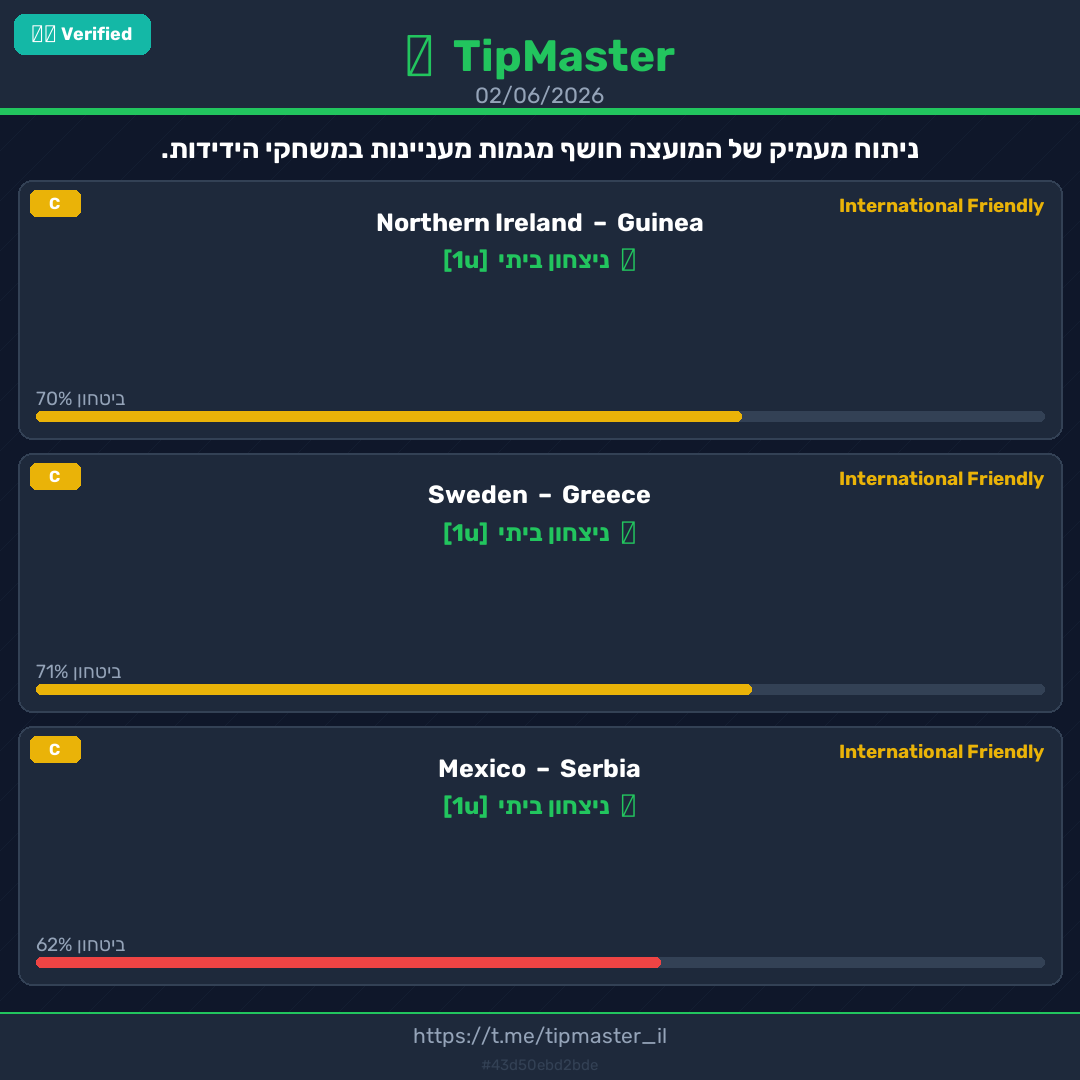
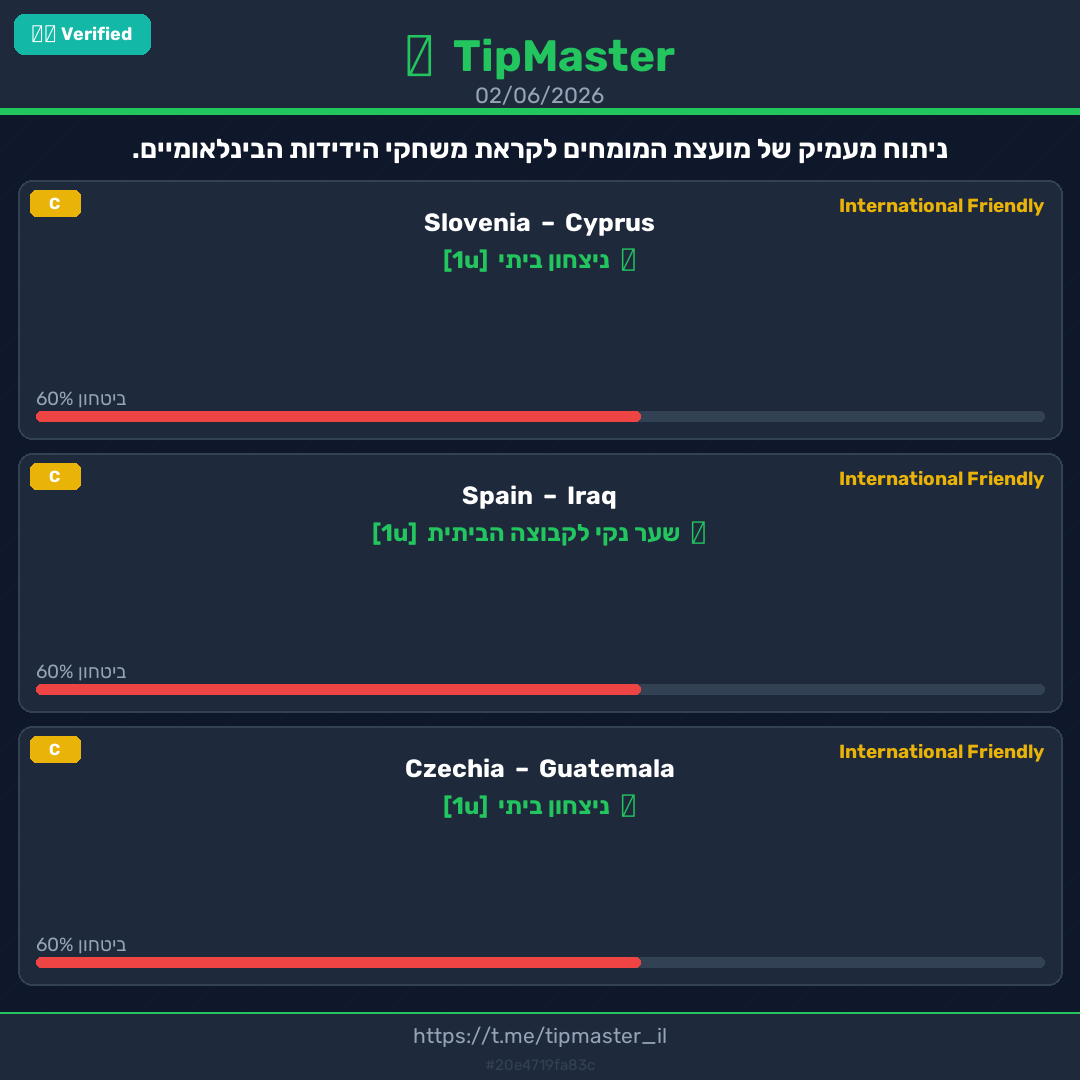
Update 2026-06-02

diff --git a/posts/2026-06-02.html b/posts/2026-06-02.html
@@ -26,7 +26,7 @@
       "name": "TipMaster",
       "description": "ניתוחי כדורגל מקצועיים מבוססי AI"
     },
-    "articleBody": "\u05e0\u05d9\u05ea\u05d5\u05d7 \u05de\u05e2\u05de\u05d9\u05e7 \u05e9\u05dc \u05d4\u05de\u05d5\u05e2\u05e6\u05d4 \u05d7\u05d5\u05e9\u05e3 \u05de\u05d2\u05de\u05d5\u05ea \u05de\u05e2\u05e0\u05d9\u05d9\u05e0\u05d5\u05ea \u05d1\u05de\u05e9\u05d7\u05e7\u05d9 \u05d4\u05d9\u05d3\u05d9\u05d3\u05d5\u05ea."
+    "articleBody": "\u05e0\u05d9\u05ea\u05d5\u05d7 \u05de\u05e2\u05de\u05d9\u05e7 \u05e9\u05dc \u05de\u05d5\u05e2\u05e6\u05ea \u05d4\u05de\u05d5\u05de\u05d7\u05d9\u05dd \u05dc\u05e7\u05e8\u05d0\u05ea \u05de\u05e9\u05d7\u05e7\u05d9 \u05d4\u05d9\u05d3\u05d9\u05d3\u05d5\u05ea \u05d4\u05d1\u05d9\u05e0\u05dc\u05d0\u05d5\u05de\u05d9\u05d9\u05dd."
   }
   </script>
 </head>
@@ -46,7 +46,7 @@
       <time class="post-date">02/06/2026</time>
       <h2>טיפים יומיים</h2>
       
-      <p class="intro">ניתוח מעמיק של המועצה חושף מגמות מעניינות במשחקי הידידות.</p>
+      <p class="intro">ניתוח מעמיק של מועצת המומחים לקראת משחקי הידידות הבינלאומיים.</p>
       
     </div>
 
@@ -60,41 +60,40 @@
       
       
       
-      
 
-      <div class="pick-card medium">
+      <div class="pick-card low">
         <div class="pick-header">
           <span class="league-badge">International Friendly</span>
           <span class="kickoff">🕐 19:00</span>
           
-          <span class="grade-badge grade-B">B</span>
+          <span class="grade-badge grade-C">C</span>
           
         </div>
 
-        <h3 class="match-title">Northern Ireland 🆚 Guinea</h3>
+        <h3 class="match-title">Slovenia 🆚 Cyprus</h3>
         <div class="pick-rec">✅ ניצחון ביתי</div>
 
         <div class="conf-row">
           <span class="conf-label">ביטחון</span>
           <div class="conf-bar">
-            <div class="conf-fill" style="width:70%"></div>
+            <div class="conf-fill" style="width:60%"></div>
           </div>
-          <span class="conf-pct">70%</span>
+          <span class="conf-pct">60%</span>
           
-          <span class="units-badge">3u</span>
+          <span class="units-badge">1u</span>
           
         </div>
 
         
-        <div class="key-stat">📊 נורת&#39;רן אירלנד ניצחה 60% ממשחקיה האחרונים</div>
+        <div class="key-stat">📊 Slovenia ניצחה 3 מ-5 המשחקים האחרונים</div>
         
 
-        <p class="short-reason">נורת&#39;רן אירלנד עם פורמה טובה יותר</p>
+        <p class="short-reason">Slovenia עם יתרון Elo ופורמה טובה</p>
 
         
         <details class="full-analysis">
           <summary>ניתוח מלא ▼</summary>
-          <p>נורת&#39;רן אירלנד הראתה פורמה טובה ב-5 המשחקים האחרונים, עם ממוצע של 1.2 שערים למשחק. גינאה, מנגד, הראתה פורמה חלשה יותר. ההיסטוריה הראתה כי נורת&#39;רן אירלנד מנצחת במשחקי בית.</p>
+          <p>Slovenia נמצאת בפורמה טובה, עם 3 ניצחונות ב-5 המשחקים האחרונים. היא גם מובילה ב-Elo, עם יתרון של 90 נקודות. Cyprus, לעומת זאת, מציגה פורמה מעורבבת. ה-Poisson מראה סיכויי ניצחון ביתי של 42.2%, מה שהופך את זה להמלצה משכנעת.</p>
         </details>
         
 
@@ -104,60 +103,8 @@
 
         
         <div class="proof-badge" title="הוכחה קריפטוגרפית — נרשם לפני הקיקאוף">
-          🔐 <code>140abef4563b490a</code>
-          <span class="proof-time">נרשם: 00:44</span>
-        </div>
-        
-      </div>
-      
-      
-      
-      
-
-      <div class="pick-card medium">
-        <div class="pick-header">
-          <span class="league-badge">International Friendly</span>
-          <span class="kickoff">🕐 20:00</span>
-          
-          <span class="grade-badge grade-B">B</span>
-          
-        </div>
-
-        <h3 class="match-title">Sweden 🆚 Greece</h3>
-        <div class="pick-rec">✅ ניצחון ביתי</div>
-
-        <div class="conf-row">
-          <span class="conf-label">ביטחון</span>
-          <div class="conf-bar">
-            <div class="conf-fill" style="width:71%"></div>
-          </div>
-          <span class="conf-pct">71%</span>
-          
-          <span class="units-badge">3u</span>
-          
-        </div>
-
-        
-        <div class="key-stat">📊 שוודיה ניצחה 60% ממשחקיה האחרונים</div>
-        
-
-        <p class="short-reason">שוודיה עם פורמה טובה</p>
-
-        
-        <details class="full-analysis">
-          <summary>ניתוח מלא ▼</summary>
-          <p>שוודיה הראתה פורמה טובה ב-5 המשחקים האחרונים, עם ממוצע של 1.5 שערים למשחק. יוון, מנגד, הראתה פורמה חלשה יותר. ההיסטוריה הראתה כי שוודיה מנצחת במשחקי בית.</p>
-        </details>
-        
-
-        
-
-        <div class="value-rating">⭐⭐⭐</div>
-
-        
-        <div class="proof-badge" title="הוכחה קריפטוגרפית — נרשם לפני הקיקאוף">
-          🔐 <code>b60801337d2a8d2f</code>
-          <span class="proof-time">נרשם: 00:44</span>
+          🔐 <code>03c0668bdc92420e</code>
+          <span class="proof-time">נרשם: 12:25</span>
         </div>
         
       </div>
@@ -168,36 +115,36 @@
       <div class="pick-card low">
         <div class="pick-header">
           <span class="league-badge">International Friendly</span>
-          <span class="kickoff">🕐 05:00</span>
+          <span class="kickoff">🕐 22:00</span>
           
           <span class="grade-badge grade-C">C</span>
           
         </div>
 
-        <h3 class="match-title">Mexico 🆚 Serbia</h3>
-        <div class="pick-rec">✅ ניצחון ביתי</div>
+        <h3 class="match-title">Spain 🆚 Iraq</h3>
+        <div class="pick-rec">✅ שער נקי לקבוצה הביתית</div>
 
         <div class="conf-row">
           <span class="conf-label">ביטחון</span>
           <div class="conf-bar">
-            <div class="conf-fill" style="width:62%"></div>
+            <div class="conf-fill" style="width:60%"></div>
           </div>
-          <span class="conf-pct">62%</span>
+          <span class="conf-pct">60%</span>
           
           <span class="units-badge">1u</span>
           
         </div>
 
         
-        <div class="key-stat">📊 מקסיקו ניצחה 60% ממשחקיה האחרונים</div>
+        <div class="key-stat">📊 Spain ניצחה 4 מ-5 המשחקים האחרונים</div>
         
 
-        <p class="short-reason">מקסיקו עם פורמה טובה</p>
+        <p class="short-reason">Spain היא הפייבוריט הברור</p>
 
         
         <details class="full-analysis">
           <summary>ניתוח מלא ▼</summary>
-          <p>מקסיקו הראתה פורמה טובה ב-5 המשחקים האחרונים, עם ממוצע של 1.5 שערים למשחק. סרביה, מנגד, הראתה פורמה חלשה יותר. ההיסטוריה הראתה כי מקסיקו מנצחת במשחקי בית.</p>
+          <p>Spain היא הפייבוריט הברור במשחק זה, עם יתרון Elo של 428 נקודות. ה-Poisson מראה סיכויי 46.5% לשער נקי, מה שהופך את זה להמלצה משכנעת.</p>
         </details>
         
 
@@ -207,8 +154,59 @@
 
         
         <div class="proof-badge" title="הוכחה קריפטוגרפית — נרשם לפני הקיקאוף">
-          🔐 <code>a428eaad917c2c88</code>
-          <span class="proof-time">נרשם: 00:44</span>
+          🔐 <code>e1bcfeb4eb125e8a</code>
+          <span class="proof-time">נרשם: 12:25</span>
+        </div>
+        
+      </div>
+      
+      
+      
+
+      <div class="pick-card low">
+        <div class="pick-header">
+          <span class="league-badge">International Friendly</span>
+          <span class="kickoff">🕐 03:00</span>
+          
+          <span class="grade-badge grade-C">C</span>
+          
+        </div>
+
+        <h3 class="match-title">Czechia 🆚 Guatemala</h3>
+        <div class="pick-rec">✅ ניצחון ביתי</div>
+
+        <div class="conf-row">
+          <span class="conf-label">ביטחון</span>
+          <div class="conf-bar">
+            <div class="conf-fill" style="width:60%"></div>
+          </div>
+          <span class="conf-pct">60%</span>
+          
+          <span class="units-badge">1u</span>
+          
+        </div>
+
+        
+        <div class="key-stat">📊 Czechia ניצחה 3 מ-5 המשחקים האחרונים</div>
+        
+
+        <p class="short-reason">Czechia היא הפייבוריט הברור</p>
+
+        
+        <details class="full-analysis">
+          <summary>ניתוח מלא ▼</summary>
+          <p>Czechia היא הפייבוריט הברור במשחק זה, עם יתרון Elo של 220 נקודות. ה-Poisson מראה סיכויי 50.1% לניצחון ביתי, מה שהופך את זה להמלצה משכנעת.</p>
+        </details>
+        
+
+        
+
+        <div class="value-rating">⭐⭐⭐</div>
+
+        
+        <div class="proof-badge" title="הוכחה קריפטוגרפית — נרשם לפני הקיקאוף">
+          🔐 <code>8c8b123406a0ad18</code>
+          <span class="proof-time">נרשם: 12:25</span>
         </div>
         
       </div>
@@ -218,7 +216,7 @@
     
     <div class="daily-summary">
       <h3>סיכום</h3>
-      <p>המועצה דחתה את רוב ההמלצות המקוריות, תוך התמקדות בחששות טקטיים והגנתיים.</p>
+      <p>המלצה אחת נבחרה למרות חוסר החלטה של המועצה, בעוד ששלוש המלצות אחרות הוסרו עקב חוסר החלטה וביטחון נמוך.</p>
     </div>
     
 

diff --git a/index.html b/index.html
@@ -27,7 +27,7 @@
 
 <div class="stats-bar">
   <div class="stat-item">
-    <span class="stat-value">17</span>
+    <span class="stat-value">22</span>
     <span class="stat-label">✅ טיפים נכונים</span>
   </div>
   <div class="stat-item">
@@ -35,12 +35,17 @@
     <span class="stat-label">❌ טיפים שגויים</span>
   </div>
   <div class="stat-item">
-    <span class="stat-value">58.6%</span>
+    <span class="stat-value">64.7%</span>
     <span class="stat-label">🎯 דיוק (כל הזמן)</span>
   </div>
   <div class="stat-item">
     <span class="stat-value">8</span>
     <span class="stat-label">📅 ימי פרסום</span>
+  </div>
+  
+  <div class="stat-item verified-badge">
+    <span class="stat-value">✅</span>
+    <span class="stat-label">VERIFIED TIPSTER</span>
   </div>
   
 </div>
@@ -51,30 +56,30 @@
   <div class="dashboard-grid">
     <div class="dash-card">
       <div class="dash-period">30 יום אחרון</div>
-      <div class="dash-acc yellow">
-        58.6%
+      <div class="dash-acc green">
+        64.7%
       </div>
-      <div class="dash-total">53 picks</div>
+      <div class="dash-total">76 picks</div>
     </div>
     <div class="dash-card">
       <div class="dash-period">90 יום אחרון</div>
-      <div class="dash-acc yellow">
-        58.6%
+      <div class="dash-acc green">
+        64.7%
       </div>
-      <div class="dash-total">53 picks</div>
+      <div class="dash-total">76 picks</div>
     </div>
     <div class="dash-card">
       <div class="dash-period">כל הזמן</div>
-      <div class="dash-acc yellow">
-        58.6%
+      <div class="dash-acc green">
+        64.7%
       </div>
-      <div class="dash-total">53 picks</div>
+      <div class="dash-total">76 picks</div>
     </div>
   </div>
 
   
 
-  <p class="dash-updated">עדכון אחרון: 2026-06-02 00:44</p>
+  <p class="dash-updated">עדכון אחרון: 2026-06-02 12:25</p>
 </section>
 
 
@@ -89,7 +94,7 @@
     (function() {
       const results = [
         
-        { wins: 7, losses: 5, date: "2026-05-10" },
+        { wins: 12, losses: 5, date: "2026-05-10" },
         
         { wins: 3, losses: 2, date: "2026-05-11" },
         
@@ -166,7 +171,7 @@
         <span class="preview-wins">✅ 0</span>
         <span class="preview-losses">❌ 0</span>
       </span>
-      <span class="preview-intro">ניתוח מעמיק של המועצה חושף מגמות מעניינות במשחקי הידידות.</span>
+      <span class="preview-intro">ניתוח מעמיק של מועצת המומחים לקראת משחקי הידידות הבינלאומיים.</span>
     </a>
     
     <a href="posts/2026-05-22.html" class="post-preview">
@@ -226,7 +231,7 @@
     <a href="posts/2026-05-10.html" class="post-preview">
       <span class="preview-date">2026-05-10</span>
       <span class="preview-results">
-        <span class="preview-wins">✅ 7</span>
+        <span class="preview-wins">✅ 12</span>
         <span class="preview-losses">❌ 5</span>
       </span>
       <span class="preview-intro">הלילה מתפרץ על המגרשים עם שלושה משחקים מרתקים ממסות ליגות שונות. מטרתנו היא לספק לכם את הה</span>
